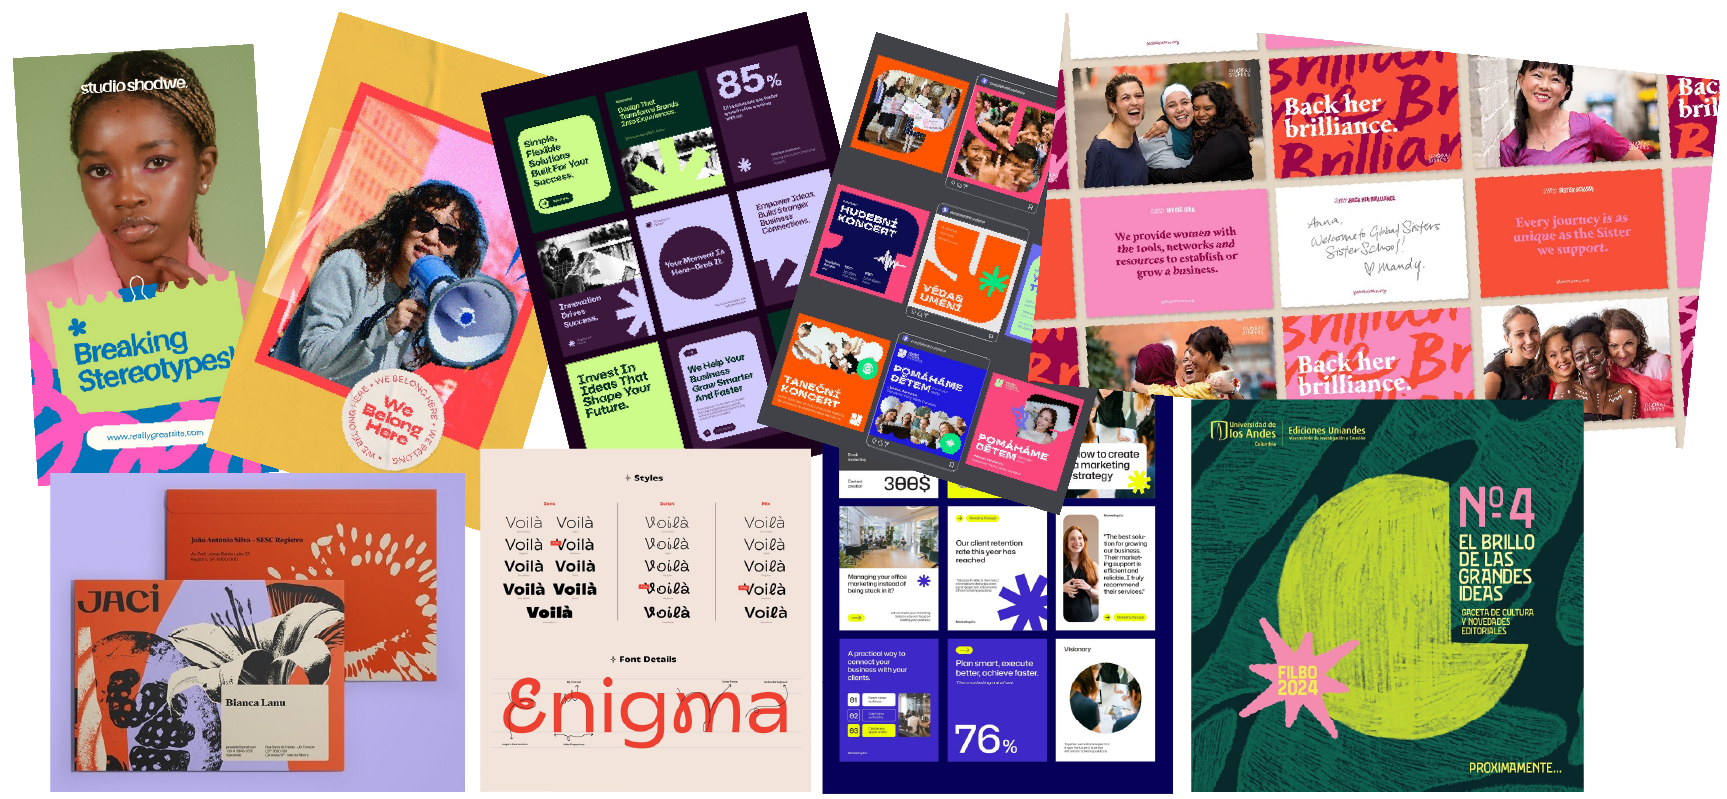
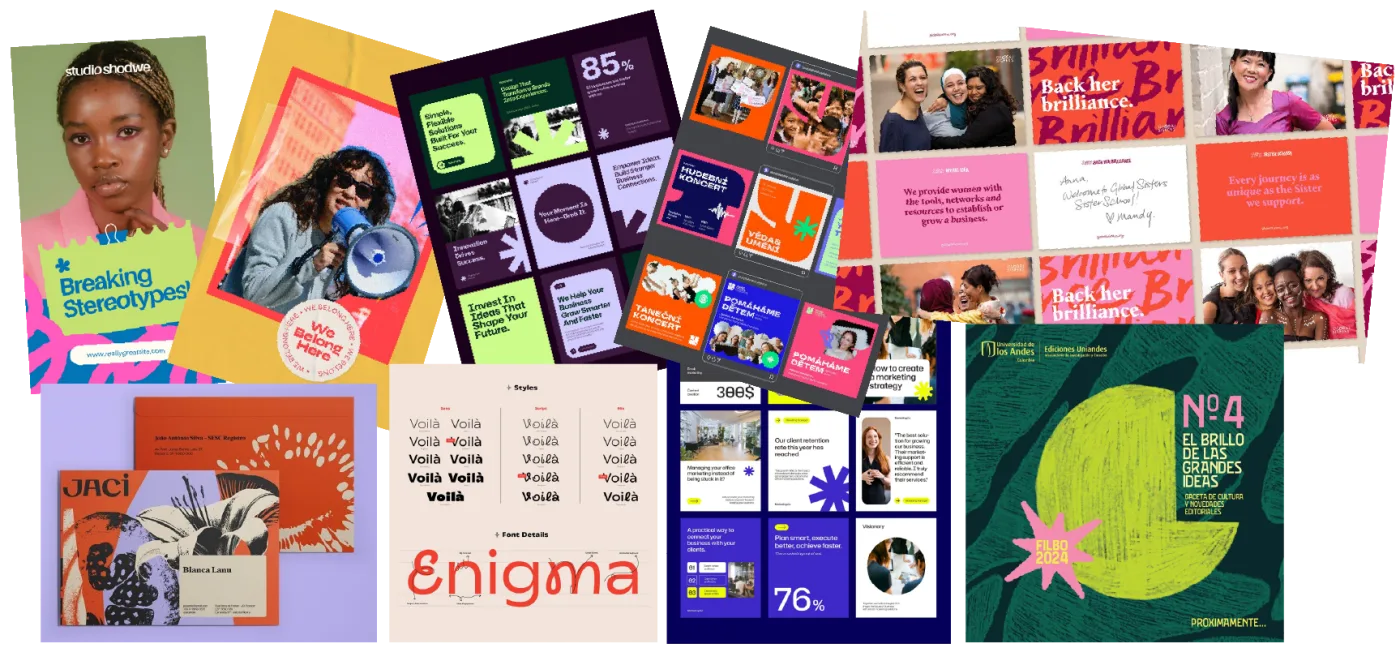
perf: compress large images — Brukerreise PNGs→WebP, recompress bruerreise/tjonnmock/nyinsta/moodboard

diff --git a/emanuel-viegeland.html b/emanuel-viegeland.html
@@ -253,13 +253,13 @@
         <div class="proj-section proj-section--none" style="background:#0d0d0d; padding-bottom:0;">
           <h2 class="proj-section__heading" style="color:#fff;">Handling 2: book et besøk</h2>
           <p class="ev-brukerreise-sub" style="font-size:26px; color:#fff; margin:-1rem 0 28px; line-height:1.6;">Brukeren kjøper en honnørbillett</p>
-          <img src="./assets/norvald/Brukerreise-04.png" alt="Brukerreise – Book et besøk" style="width:100%; display:block;" loading="lazy">
+          <img src="./assets/norvald/Brukerreise-04.webp" alt="Brukerreise – Book et besøk" style="width:100%; display:block;" loading="lazy">
         </div>
 
         <div class="proj-section proj-section--none" style="background:#0d0d0d; padding-bottom:0;">
           <h2 class="proj-section__heading" style="color:#fff;">Handling 3: finn et arrangement</h2>
           <p class="ev-brukerreise-sub" style="font-size:26px; color:#fff; margin:-1rem 0 28px; line-height:1.6;">Brukeren finner og leser om en kommende konsert</p>
-          <img src="./assets/norvald/Brukerreise-03.png" alt="Brukerreise – Finn et arrangement" style="width:100%; display:block;" loading="lazy">
+          <img src="./assets/norvald/Brukerreise-03.webp" alt="Brukerreise – Finn et arrangement" style="width:100%; display:block;" loading="lazy">
         </div>
 
     </div>
